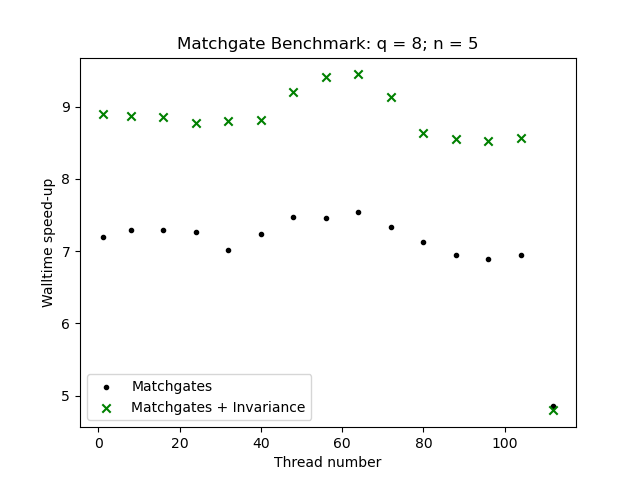
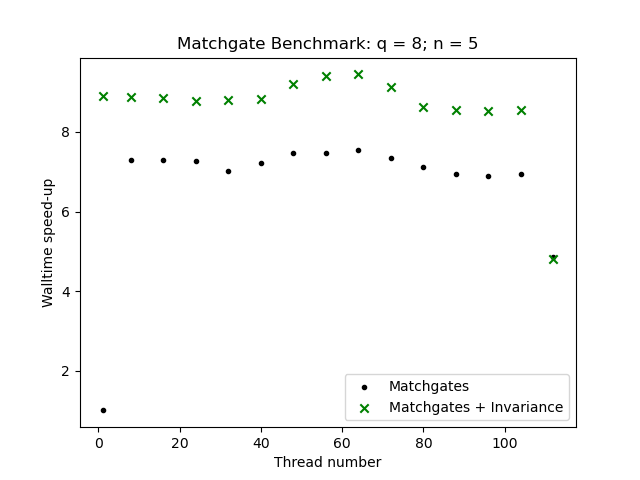
Minor changes to plots

diff --git a/benchmark_hpc/plot_speedup.py b/benchmark_hpc/plot_speedup.py
@@ -5,8 +5,8 @@ import numpy as np
 import matplotlib.pyplot as plt
 
 
-nqubits = 12
-nlayers = 5
+nqubits = 8
+nlayers = 11
 ulayers = 601
 
 script_dir = os.path.dirname(__file__)
@@ -88,7 +88,7 @@ print(f"Matchgate speed-up      : {mean_mspu}")
 print(f"Matchgate + INV speed-up: {mean_ispu}")
 print(f"Intermediate speed-up   : {mean_tspu}")
 
-temp = np.array([mean_mspu, mean_ispu, mean_tspu, nlayers])
+temp = np.array([mean_mspu, mean_ispu, mean_tspu, nlayers, mspu[-1], ispu[-1]])
 
 np.savetxt(f"{script_dir}/bench_out/q{nqubits}/plots/n{nlayers}_q{nqubits}_u{ulayers}_invariance_scaling.txt", temp)
 

diff --git a/benchmark_hpc/benchmark_serial.c b/benchmark_hpc/benchmark_serial.c
@@ -35,8 +35,8 @@ int main()
 
     #else
 
-	const int nqubits = 12;
-	const int nlayers = 51;
+	const int nqubits = 10;
+	const int nlayers = 5;
 	const int ulayers = 601;
 
     int num_threads = 1;
